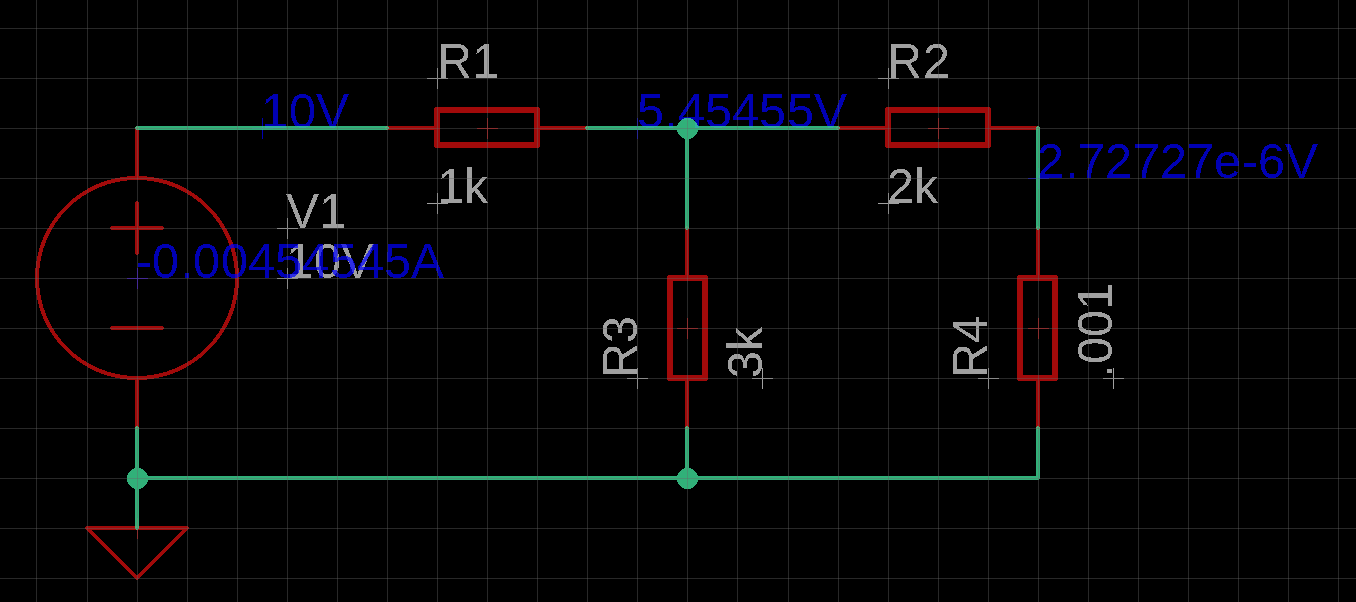
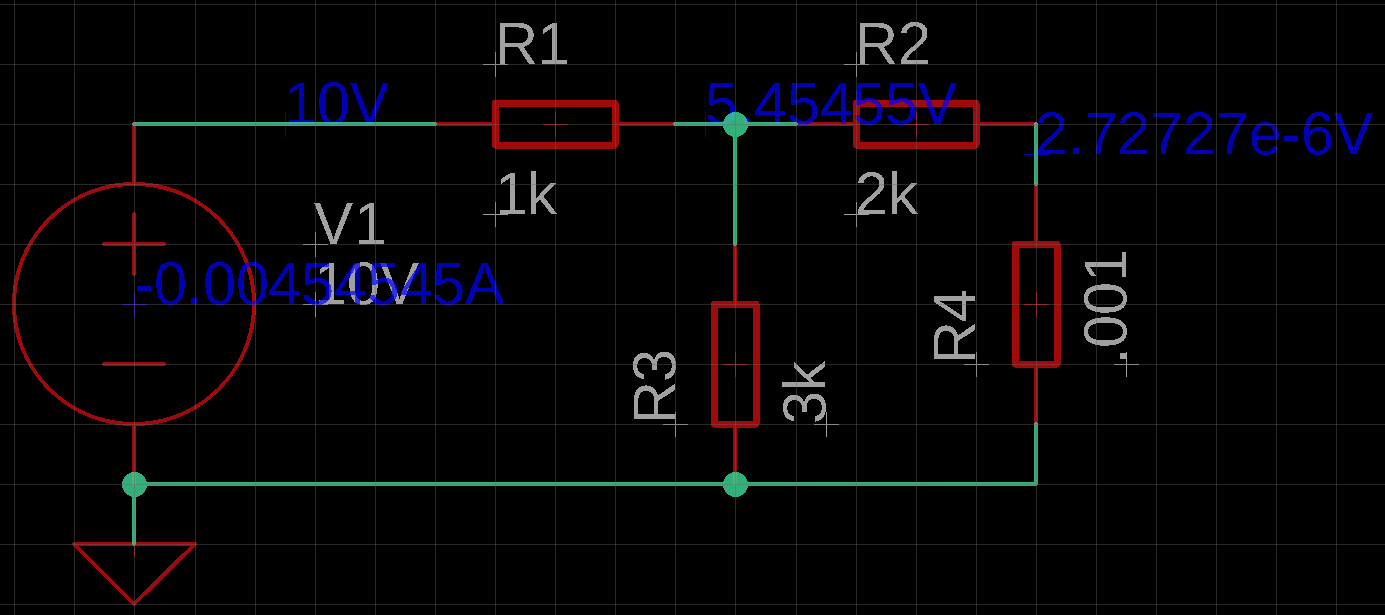
labs

Changed region(s): [[0.0, 0.0299, 1.0, 0.9867], [0.1549, 0.0897, 0.1858, 0.1196], [0.0, 0.1794, 0.031, 0.2093]]

diff --git a/electronics/hw/04/04.tex b/electronics/hw/04/04.tex
@@ -69,19 +69,32 @@ Thus, the amplitude of the output wave is $\frac{1}{\sqrt{1+16\pi^{2}}} = 79.3$m
     \implies \phi &= \arctan(4\pi) \\
                   &\approx 1.49.
 \end{align*}
-Thus, the phase shift of the output wave is 85.37\degree. % Should be negative???
+Thus, the phase shift of the output wave is 85.37\degree.
 
 \newpage\noindent{\bf 3.}
 
-The cut-off frequency is given by $$\omega_0 = \frac RL = \frac{50}{100\cdot10^{-6}} = \frac{50}{100\cdot10^{-6}} = 500\text{kHz}.$$
+The cut-off frequency is given by $$\omega_0 = \frac RL = \frac{50}{100\cdot10^{-6}} = \frac{50}{100\cdot10^{-6}} = 500000 \frac{\text{rad}}{\text{s}}$$
+Thus, $$f = \frac{500000}{2\pi} \approx 79577\text{Hz}.$$
 
 \newpage\noindent{\bf 4.}
 
+% At .4V, we'll just see Vin, since the voltmeter has a high resistance and the diodes are not activated.
+% At .7V, it's the same as before, but flat when it hits .6 and -.6
+% At 1V it's the same logic as .7
+
 \newpage\noindent{\bf 5.}
+
+% V=IR -> I = .06A. That intersects the graph at ~.57V, so that's the expected voltage at point a.
 
 \newpage\noindent{\bf 6.}
 
+    $$V_{\text{RMS}} = \sqrt2 \cdot 15 \approx 21.2V.$$
+
 \newpage\noindent{\bf 7.}
+
+    {\bf (a)} You need smaller filter capacitors for a bridge rectifier than you do for a half-wave rectifier because a full bridge rectifier's output frequency is twice its input frequency, so the capacitor needs to store less charge to provide current between peaks.
+
+    {\bf (b)} They are the same thing, so they need similarly-sized capacitors.
 
 \newpage\noindent{\bf 8.}
 
@@ -94,18 +107,17 @@ See \texttt{04.py}.
 {\bf (a)}
 Since no current will flow through the 2k resistor, the open circuit is equivalent to the following circuit:
 \begin{center}
-\includegraphics{schematic04.png}
+\includegraphics[scale=.5]{schematic04.png}
 \end{center}
 Thus, the open circuit voltage is 7.5V.
 
 \medskip{\bf (b)}
 \begin{center}
-\includegraphics[scale=0.45]{schematic042.png}
+\includegraphics[scale=0.25]{schematic042.png}
 \end{center}
+Thus, the short circuit current is $$\frac{2.73 \cdot 10^{-6}}{.001} = .00273\text{A}.$$
 
 \medskip{\bf (c)}
-Thévenin equivalent of the circuit:
-\begin{center}
-\end{center}
+Thus, the Thévenin equivalent of the circuit consists of a 7.5V voltage source connected to a $\frac{7.5}{.00273} \approx 2747\Omega$ resistor.
 
 \end{document}
